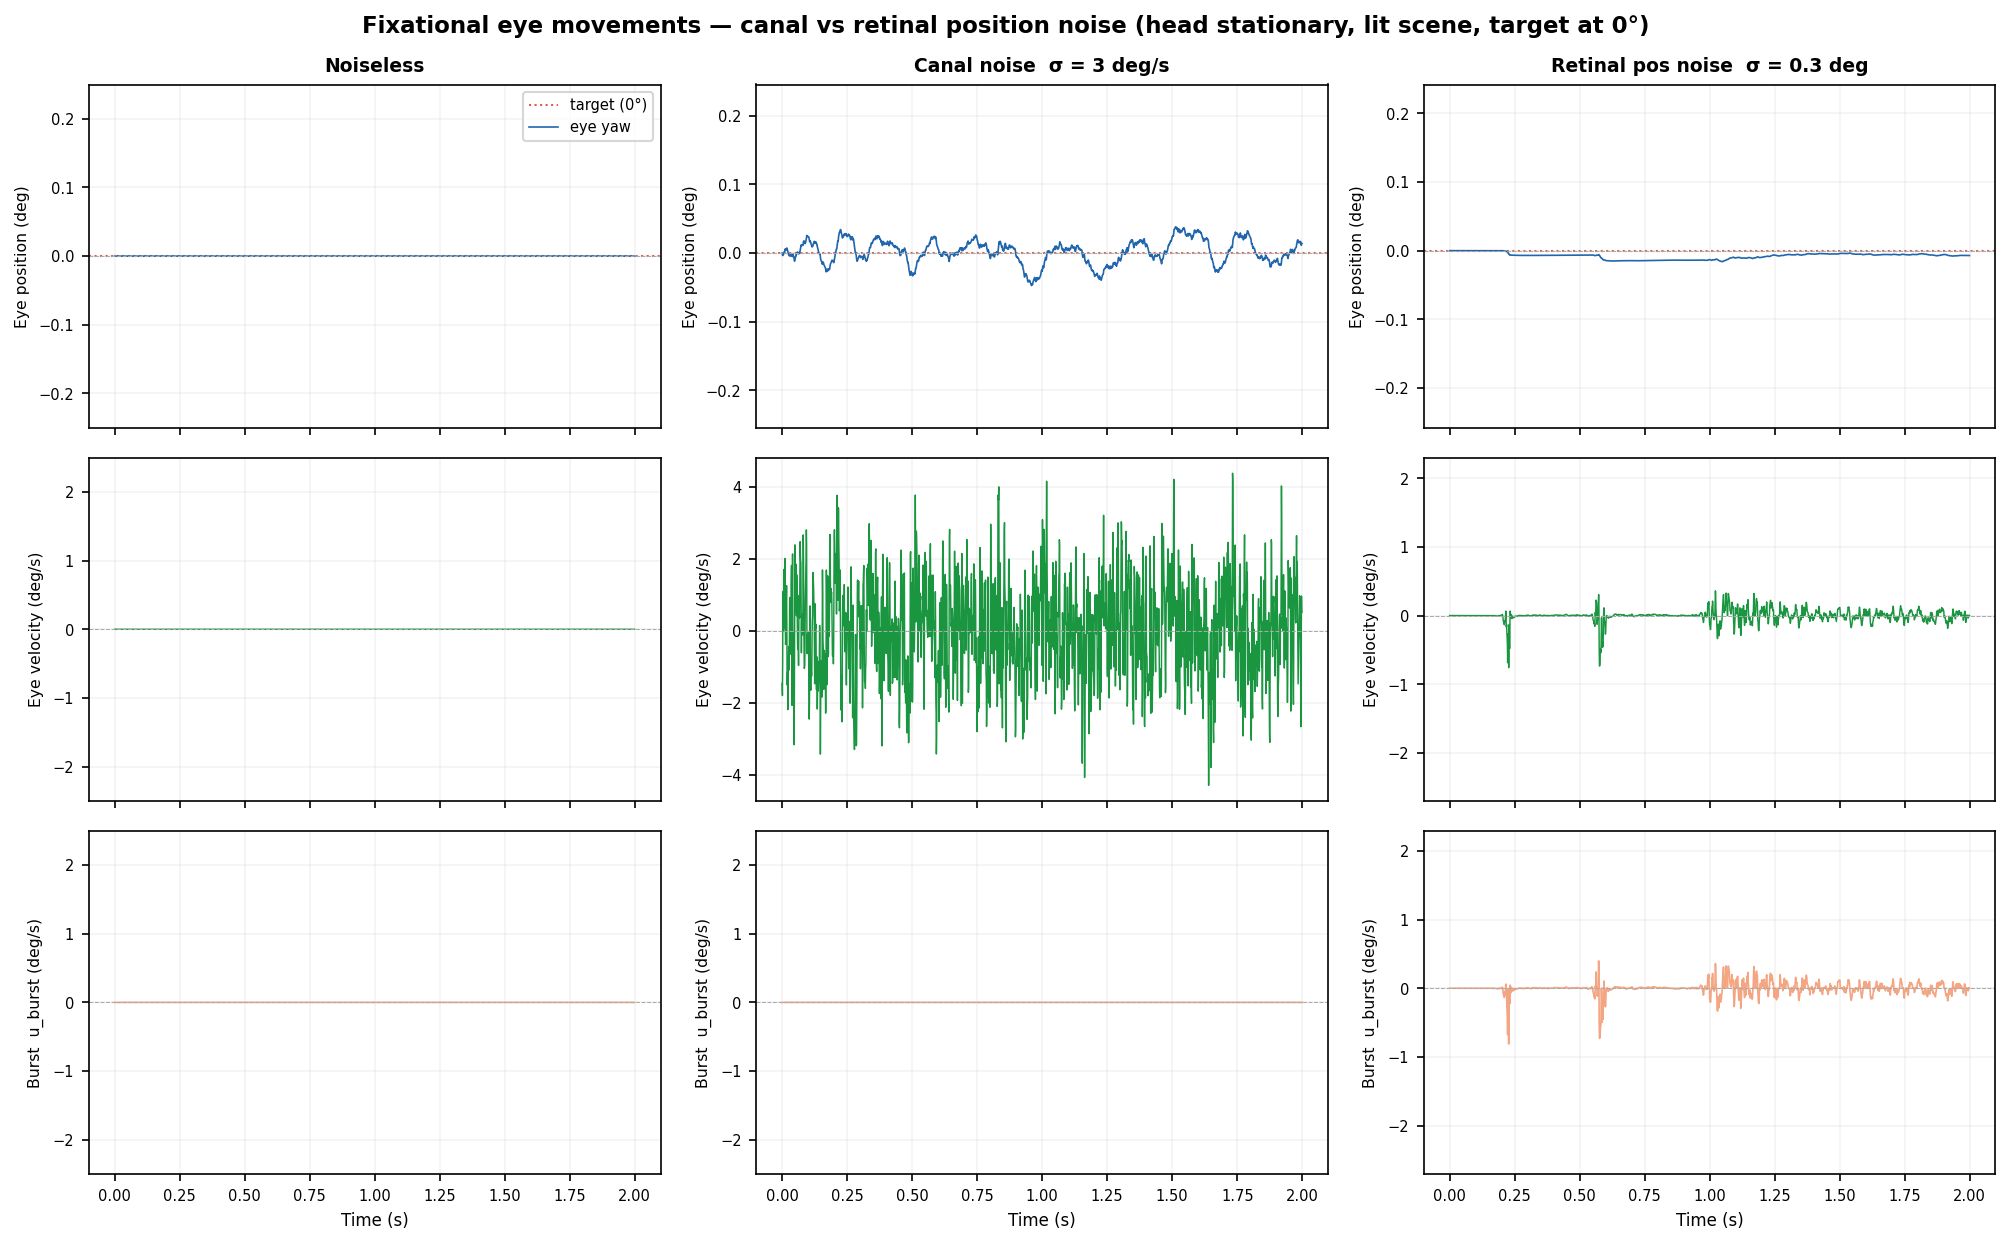
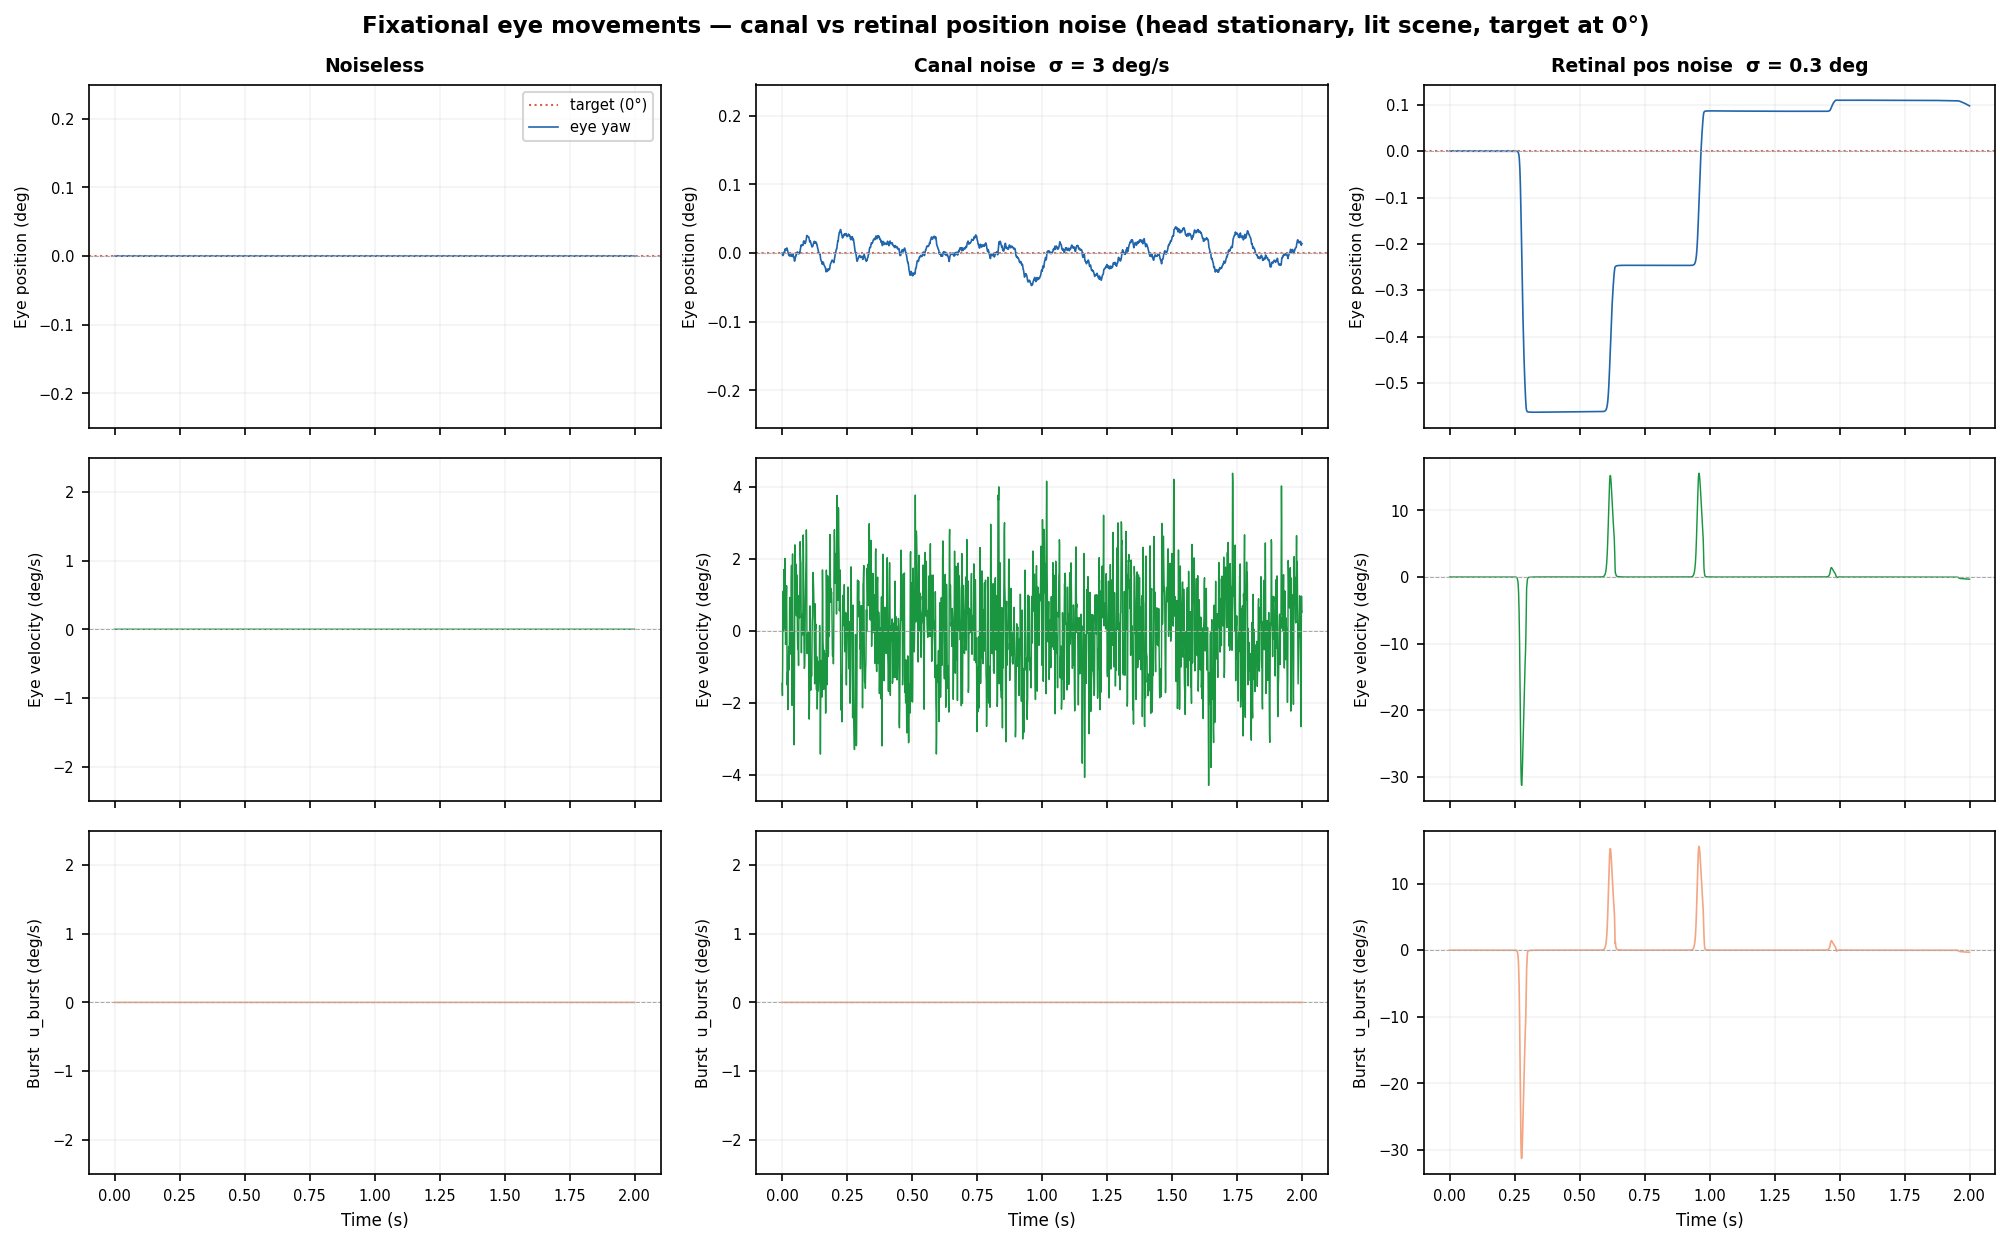
noise is now OU

diff --git a/oculomotor/sim/simulator.py b/oculomotor/sim/simulator.py
@@ -376,8 +376,22 @@ def simulate(params, t_array_or_stimulus, head_vel_array=None,
 
     noise_canal = jax.random.normal(k_canal, (T, 6)) * params.sensory.sigma_canal  # (T, 6) deg/s
     noise_slip  = jax.random.normal(k_slip,  (T, 3)) * params.sensory.sigma_slip   # (T, 3) deg/s
-    noise_pos   = jax.random.normal(k_pos,   (T, 3)) * params.sensory.sigma_pos    # (T, 3) deg
     noise_vel   = jax.random.normal(k_vel,   (T, 3)) * params.sensory.sigma_vel    # (T, 3) deg/s
+
+    # Retinal position drift — OU process so error wanders slowly (not white noise).
+    # White noise crosses threshold every ms → continuous firing.
+    # OU with tau_pos_drift ~300ms accumulates slowly → sparse microsaccades.
+    sigma_pos      = params.sensory.sigma_pos
+    tau_pos_drift  = params.sensory.tau_pos_drift
+    alpha_ou       = jnp.exp(-dt / tau_pos_drift)
+    ou_drive       = jnp.sqrt(1.0 - alpha_ou ** 2) * sigma_pos
+    white_pos      = jax.random.normal(k_pos, (T, 3))
+
+    def _ou_step(carry, w):
+        x = alpha_ou * carry + ou_drive * w
+        return x, x
+
+    _, noise_pos = jax.lax.scan(_ou_step, jnp.zeros(3), white_pos)  # (T, 3) deg
 
     noise_canal_interp = diffrax.LinearInterpolation(ts=t_array, ys=noise_canal)
     noise_slip_interp  = diffrax.LinearInterpolation(ts=t_array, ys=noise_slip)

diff --git a/oculomotor/models/sensory_models/sensory_model.py b/oculomotor/models/sensory_models/sensory_model.py
@@ -70,6 +70,7 @@ class SensoryParams(NamedTuple):
     sigma_canal:        float       = 0.0    # canal afferent noise (deg/s equiv.); ~1–3 deg/s realistic
     sigma_slip:         float       = 0.0    # retinal slip noise (deg/s); drives VS/OKR
     sigma_pos:          float       = 0.0    # retinal position noise (deg);  drives SG → microsaccades
+    tau_pos_drift:      float       = 0.3    # OU drift TC (s); sets how slowly pos error wanders
     sigma_vel:          float       = 0.0    # target velocity noise (deg/s); drives pursuit
 
 # ── Re-exports for external callers ────────────────────────────────────────────
